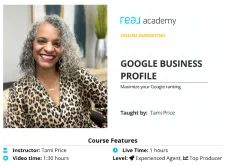
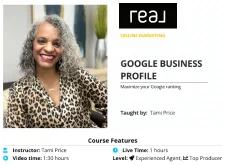
img change for real name img

Changed region(s): [[0.5242, 0.0, 0.8018, 0.1807]]

diff --git a/indexfive.html b/indexfive.html
@@ -148,7 +148,7 @@
                             <div class="w_310"
                                 style="padding: 22px 20px; border-radius: 4px;  border: 1px solid rgba(104, 105, 104, 0.10);">
                                 <img style="width: 100%; " src="./imagefive/men_img.webp" alt="google">
-                                <div style="padding-top: 47px;text-align: center; ">
+                                <div style="padding-top: 24px;text-align: center; ">
                                     <a href="#"
                                         style="background-color: #040503;  border-radius: 7px; padding-right: 6px;   color: white;  line-height: normal; font-family:'Inter', sans-serif ;font-size: 14px; font-style: normal; font-weight: 500; line-height: normal; padding: 13.2px 14px 14px 14px ; text-decoration: none; display: inline-block;">Join
                                         for Free
@@ -161,7 +161,7 @@
                             <div class="w_310 "
                                 style="padding: 22px 20px; border-radius: 4px;  border: 1px solid rgba(104, 105, 104, 0.10);">
                                 <img style="width: 100%;" src="./imagefive/both_img.webp" alt="google">
-                                <div style="padding-top: 47px;text-align: center; ">
+                                <div style="padding-top: 24px;text-align: center; ">
                                     <a href="#"
                                         style="background-color: #040503;  border-radius: 7px; padding-right: 6px;   color: white;  line-height: normal; font-family:'Inter', sans-serif ;font-size: 14px; font-style: normal; font-weight: 500; line-height: normal; padding: 13.2px 14px 14px 14px ; text-decoration: none; display: inline-block;">Join
                                         for Free
